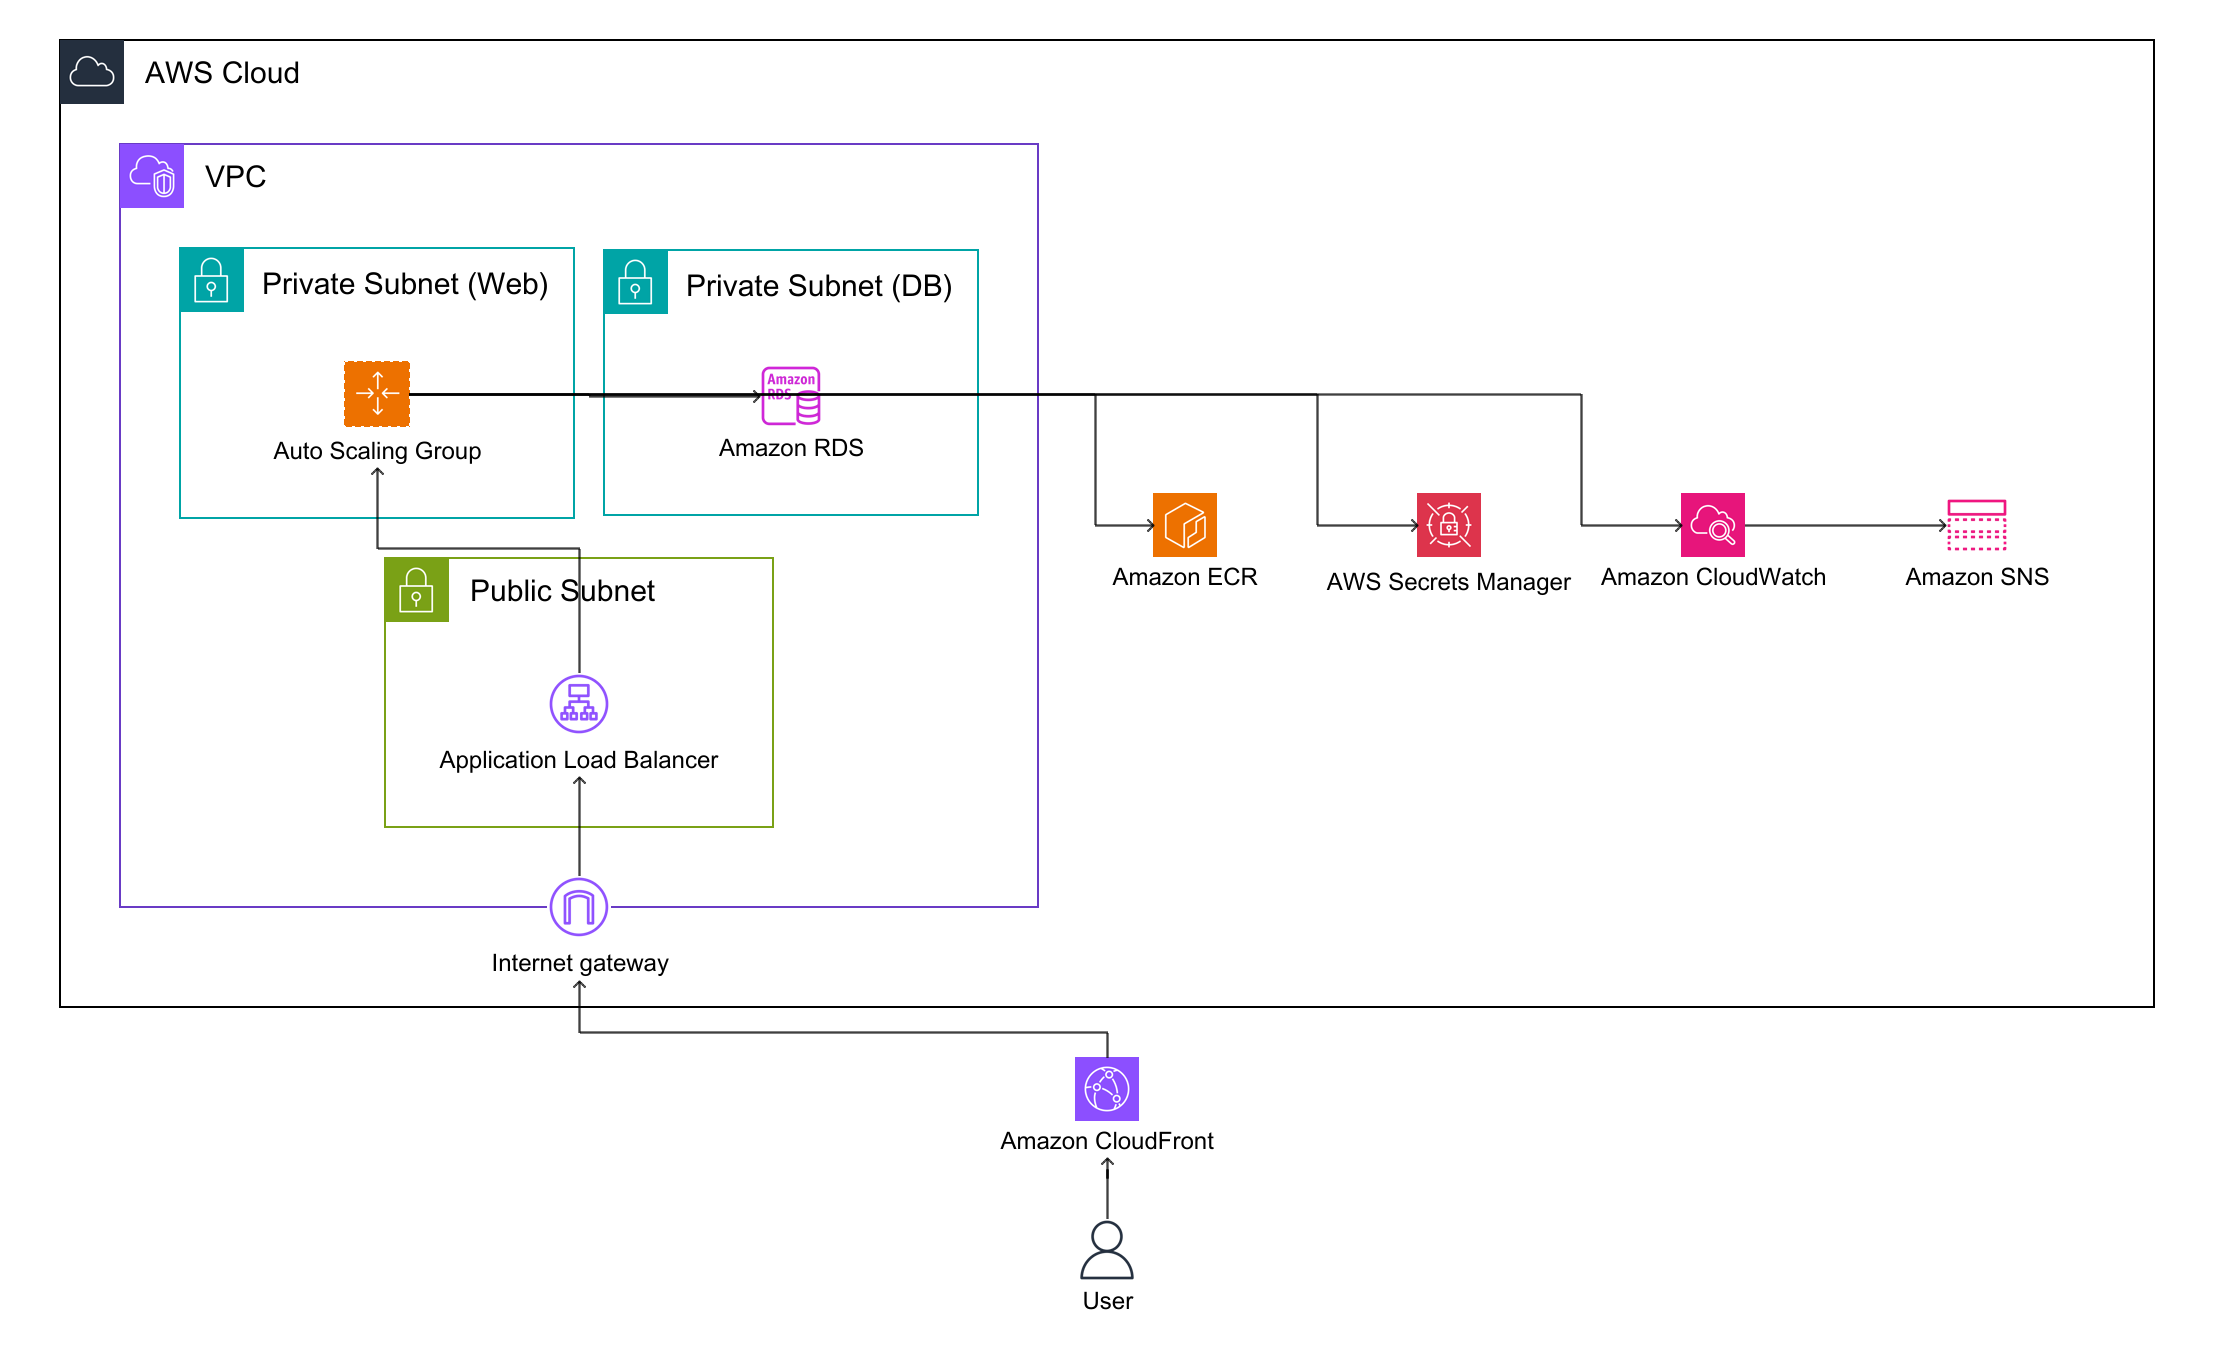
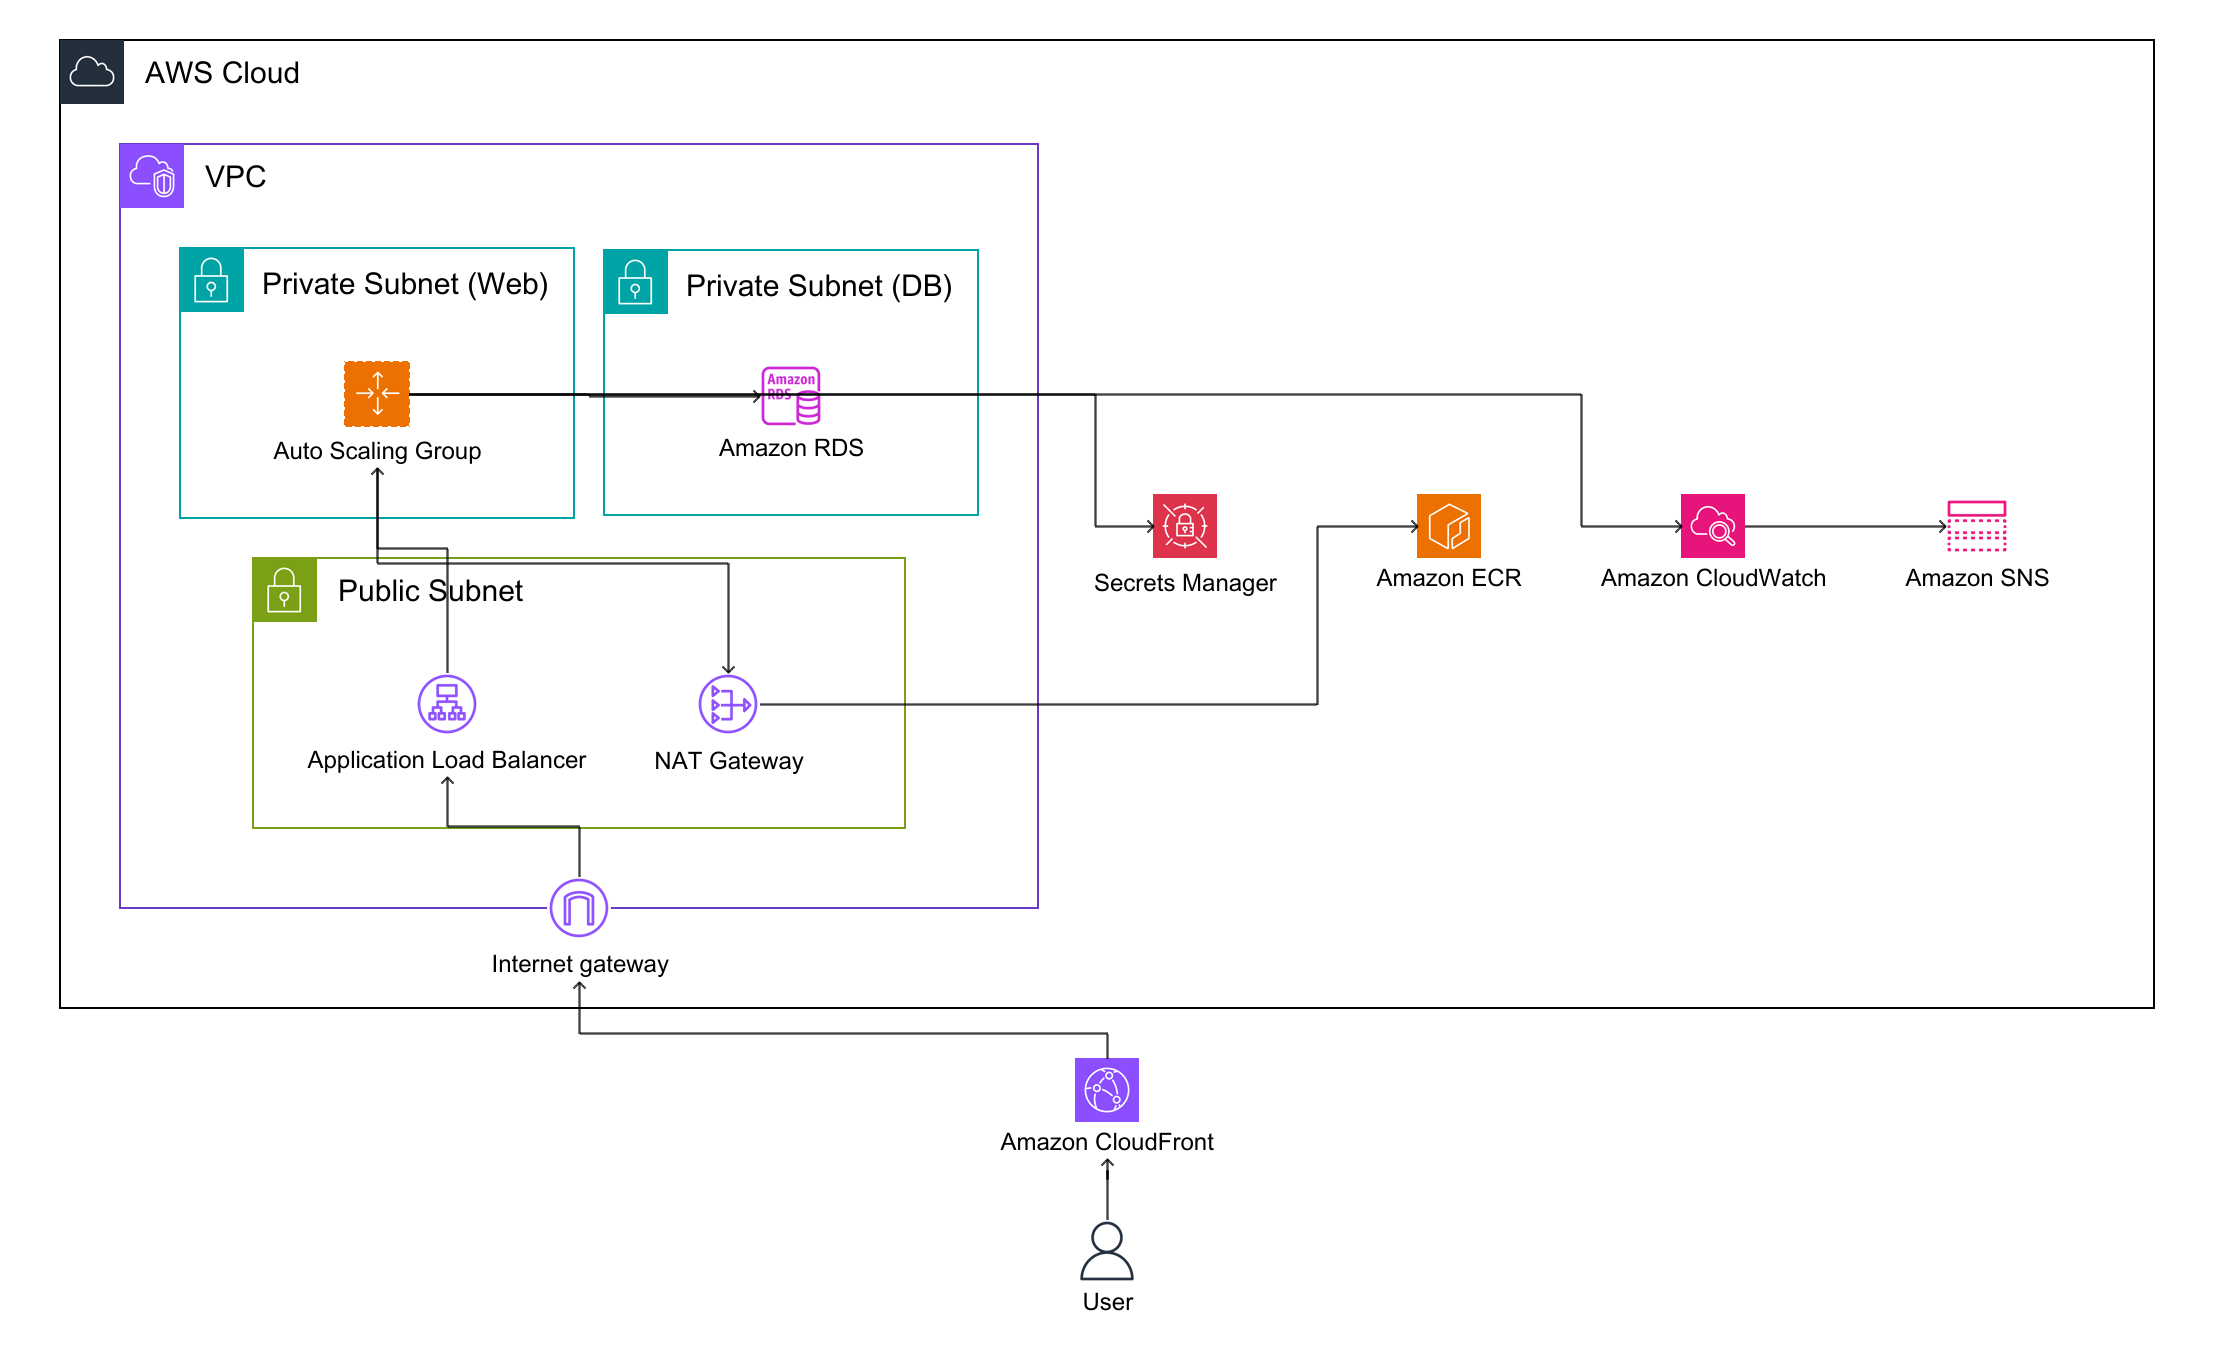
feat(infra): replace VPC endpoints with NAT Gateway, redraw diagrams, update costs

diff --git a/README.md b/README.md
@@ -1,6 +1,6 @@
 # Option 4: 1 EC2 Web ASG + 1 AWS Managed RDS Database (Recommended)
 
-Independent infrastructure and application source code for **Option 4: 1 EC2 Web ASG + 1 AWS Managed RDS Database (Recommended Architecture)**.
+Independent infrastructure and application source code for **Option 4: 1 EC2 Web ASG + 1 AWS Managed RDS Database (Recommended Architecture) with AWS NAT Gateway**.
 
 ## 1. Architecture Overview
 ![Architecture](infra/architecture_diagram.png)
@@ -8,6 +8,7 @@ Independent infrastructure and application source code for **Option 4: 1 EC2 Web
 ### Key Architectural Highlights:
 - **CloudFront CDN Edge Caching:** Caches static assets globally, offloading 80–90% of requests from origin servers, lowering TTFB.
 - **Application Load Balancer (ALB):** Spans Multi-AZ Public Subnets, balancing incoming HTTP/HTTPS traffic with health probes on `/api/health`.
+- **AWS NAT Gateway:** Deployed in the Public Subnet with an Elastic IP, enabling EC2 instances in Private Subnets to pull container images from Amazon ECR, access AWS Secrets Manager, and stream logs to CloudWatch securely without exposing inbound ports.
 - **Web Auto Scaling Group (ASG):** Resides securely within Private Subnets, automatically scaling EC2 instances based on CPU utilization.
 - **AWS Managed RDS PostgreSQL (Multi-AZ):** Fully managed relational database located in Private Subnets with automated backups, storage encryption, and automated failover.
 - **AWS Secrets Manager Integration:** Zero hardcoded plaintext database passwords; credentials securely rotated and dynamically supplied to compute tiers.
@@ -20,23 +21,22 @@ Independent infrastructure and application source code for **Option 4: 1 EC2 Web
 ### A. Component Cost Breakdown (Infracost CLI Verified)
 | CloudFormation Module / Component | AWS Resource Type | Monthly Cost (USD) | Notes |
 | :--- | :--- | :--- | :--- |
+| **AWS NAT Gateway** | `AWS::EC2::NatGateway` | **$32.85** | Managed NAT Gateway in Public Subnet (0.0.0.0/0 egress) |
 | **AWS Managed RDS PostgreSQL** | `AWS::RDS::DBInstance` (`db.t3.micro` + 20GB gp3) | **$31.42** | Managed engine, automated backups & storage |
 | **Application Load Balancer (ALB)** | `AWS::ElasticLoadBalancingV2::LoadBalancer` | **$16.43** | Multi-AZ load balancer and SSL/TLS routing |
 | **Web Compute (Auto Scaling Group)** | `AWS::AutoScaling::AutoScalingGroup` (`t3.micro`) | **$9.49** | Stateless web application compute tier |
 | **Secrets & Operational Monitoring** | `SecretsManager`, `CloudWatch`, `SNS` | **$0.36** | Dual Secrets (RDS + App) and multi-tier alarms |
-| **Subtotal (Production HA Application Tier)** | `infra/modules/app.yaml` | **$57.70 / mo** | ~1,460,000 VND / month |
-| **Private VPC Interface Endpoints (Optional)** | `AWS::EC2::VPCEndpoint` (7 endpoints) | **$102.20** | SSM, ECR, CloudWatch Logs in Private Subnets |
-| **Total (Full Enterprise Isolated Architecture)** | `infra/modules/` | **$159.90 / mo** | ~4,045,000 VND / month |
+| **Total Monthly Cost** | `infra/modules/` | **$90.55 / mo** | ~2,290,000 VND / month |
 
-### B. Cost by Purchasing Option & Architecture Mode
-| Purchasing Model / Mode | Web Compute | RDS Managed DB | ALB & Support | Total (Lean Mode)* | Total (Full Isolated) | Approx. Local Currency (Lean) |
-| :--- | :--- | :--- | :--- | :--- | :--- | :--- |
-| **On-Demand (Default)** | $9.49 | $31.42 | $16.79 | **$57.70 / mo** | **$159.90 / mo** | ~1,460,000 VND |
-| **1-Year Savings Plan / RI** | $5.98 | $22.62 | $16.79 | **$45.39 / mo** *(21% off)* | **$147.59 / mo** | ~1,149,000 VND |
-| **3-Year Savings Plan / RI** | $3.79 | $16.02 | $16.79 | **$36.60 / mo** *(37% off)* | **$138.80 / mo** | ~927,000 VND |
-| **Production Scale (`db.t3.small` Multi-AZ)** | $18.98 | $62.84 | $16.79 | **$98.61 / mo** | **$200.81 / mo** | ~2,495,000 VND |
+*(Tiết kiệm **$69.35 / tháng** so với mô hình cũ sử dụng 7 VPC Interface Endpoints $102.20/tháng).*
 
-*\*Lean Mode: Compute + ALB + CloudFront routing without dedicated VPC Interface Endpoints ($102.20/mo).*
+### B. Cost by Purchasing Option & Commitment
+| Purchasing Model | Web Compute | RDS Managed DB | NAT Gateway & ALB | Total Monthly Cost | Approx. Local Currency (VND) |
+| :--- | :--- | :--- | :--- | :--- | :--- |
+| **On-Demand (Default)** | $9.49 | $31.42 | $49.64 | **$90.55 / mo** | ~2,290,000 VND |
+| **1-Year Savings Plan / RI** | $5.98 | $22.62 | $49.64 | **$78.24 / mo** *(14% savings)* | ~1,980,000 VND |
+| **3-Year Savings Plan / RI** | $3.79 | $16.02 | $49.64 | **$69.45 / mo** *(23% savings)* | ~1,755,000 VND |
+| **Production Scale (`db.t3.small` Multi-AZ)** | $18.98 | $62.84 | $49.64 | **$131.46 / mo** | ~3,325,000 VND |
 
 ## 3. Disaster Recovery & Recovery Time (MTTR)
 
